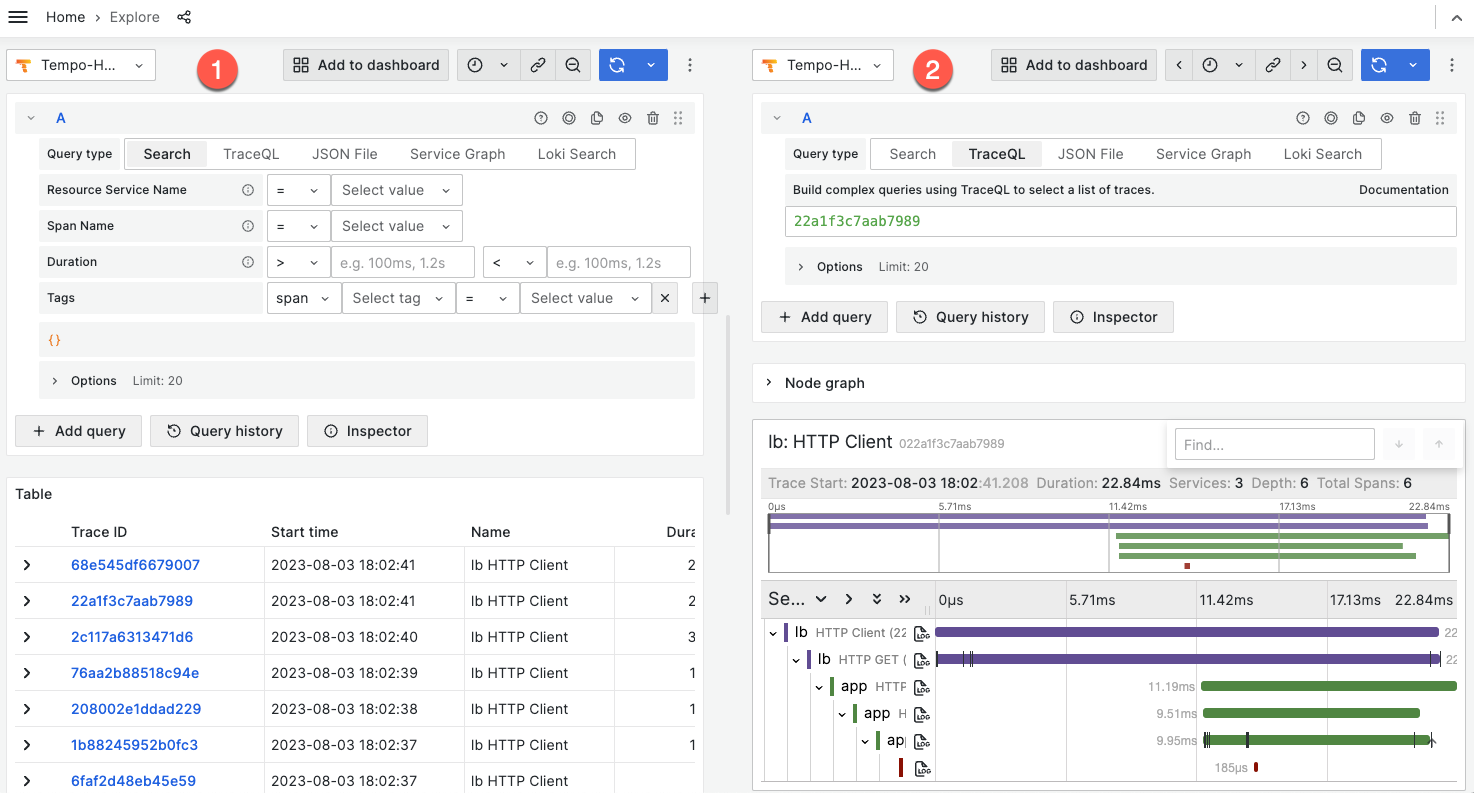
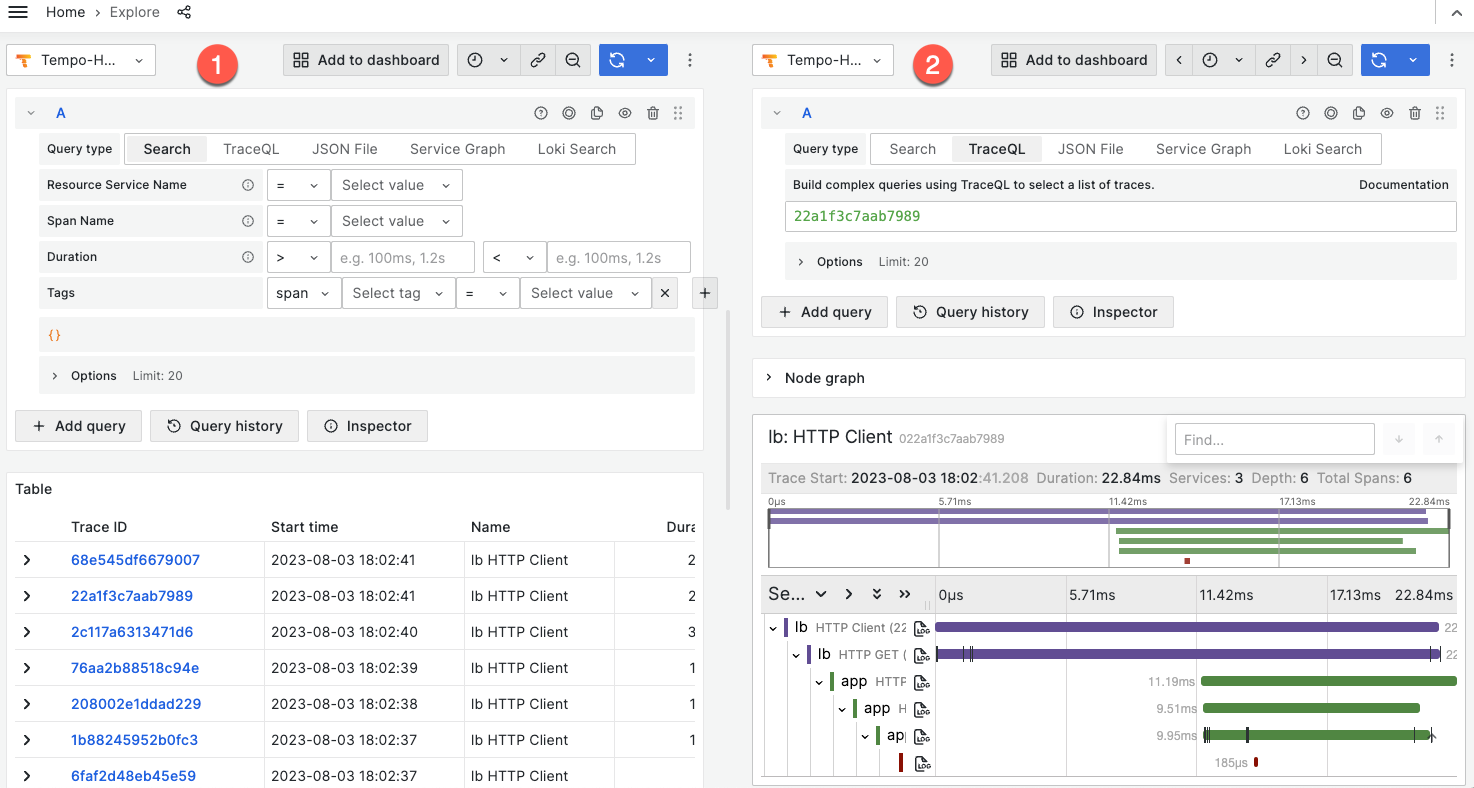
Change screenshots to use GCP

diff --git a/docs/sources/tempo/operations/best-practices.md b/docs/sources/tempo/operations/best-practices.md
@@ -16,7 +16,7 @@ Spans also have a hierarchy, where parent spans can have children or siblings.
 
 In the screenshot below, the left side of the screen (1) shows the list of results for the query. The right side (2) lists each span that makes up the selected trace.
 
-![Traces example with query results and spans](/static/img/docs/tempo/trace-explore-spans.png)
+![Traces example with query results and spans](/static/img/docs/tempo/screenshot-trace-explore-spans-g10.png)
 
 A **span attribute** is a key/value pair that provides context for its span. For example, if the span deals with calling another service via HTTP, an attribute could include the HTTP URL (maybe as the span attribute key `http.url`) and the HTTP status code returned (as the span attribute `http.status_code`). Span attributes can consist of varying, non-null types.
 
@@ -70,7 +70,7 @@ However, adding a span for each method or function call in that loop might not, 
 
 ## Span length
 
-While there are some (high) default limits to the length that a span (and by definition, the traces they belong to) can be, these can be adjusted by [these configurations]({{< relref "../configuration#ingestion-limits" >}}). 
+While there are some (high) default limits to the length that a span (and by definition, the traces they belong to) can be, these can be adjusted by [these configurations]({{< relref "../configuration#ingestion-limits" >}}).
 Traces that include a large number of spans and/or long-running spans can have an impact on the time taken to query them once stored.
 
 For long-running spans and traces, the best way to see this impact on requests is to send a few test cases and see what the performance looks like (and evaluate the trace size).

diff --git a/docs/sources/tempo/traces.md b/docs/sources/tempo/traces.md
@@ -45,7 +45,7 @@ That trace ID enables one to trace, or follow a request as it flows from node to
 
 Here's an example showing two pages in Grafana Cloud. The first, on the left (1), shows a query using the **Explore** feature. In the query results you can see a **traceID** field that was added to an application. That field contains a **Tempo** trace ID. The second page, on the right (2), uses the same Explore feature to perform a Tempo search using that **trace ID**. It then shows a set of spans as horizontal bars, each bar denoting a different part of the system.
 
-<p align="center"><img src="../getting-started/assets/trace-explore-spans.png" alt="Trace example"></p>
+![Traces example with query results and spans](/static/img/docs/tempo/screenshot-trace-explore-spans-g10.png)
 
 The trace ID is applied to activities recorded as metrics and as logs.
 
